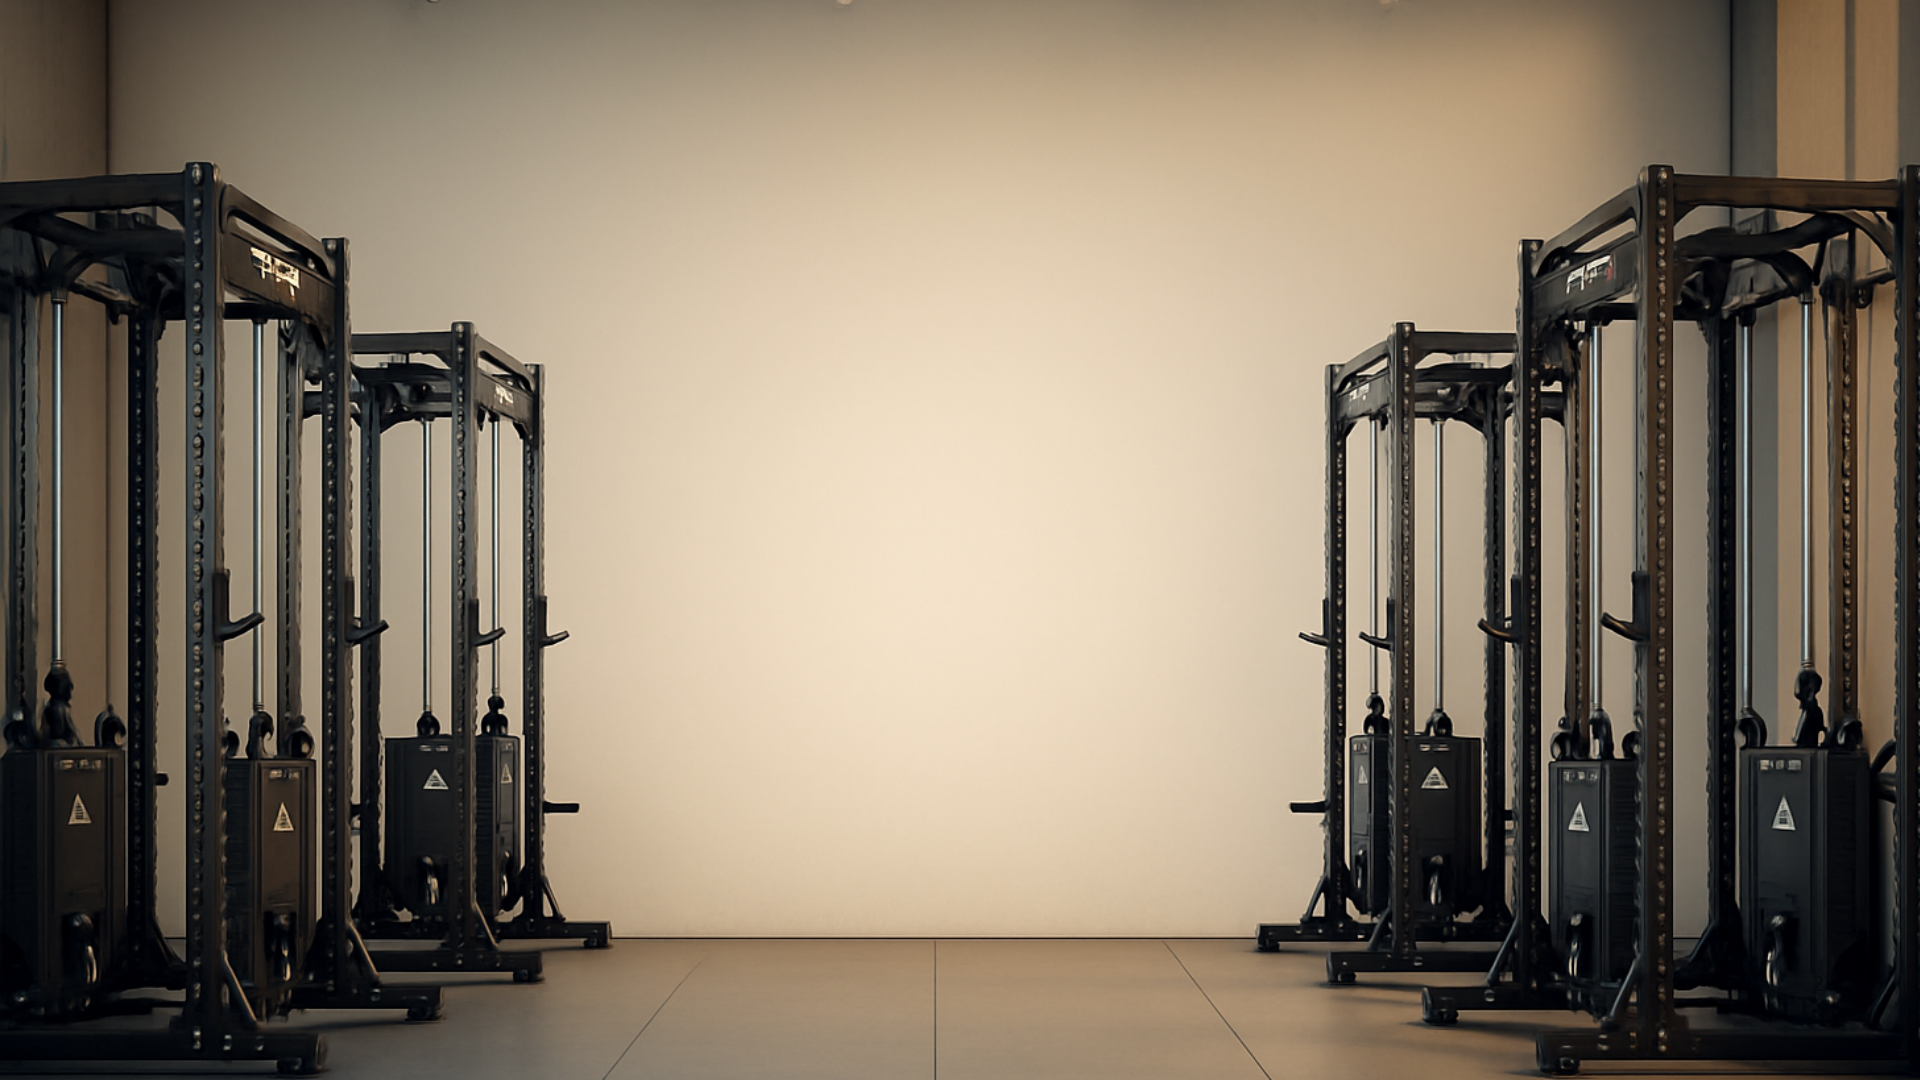
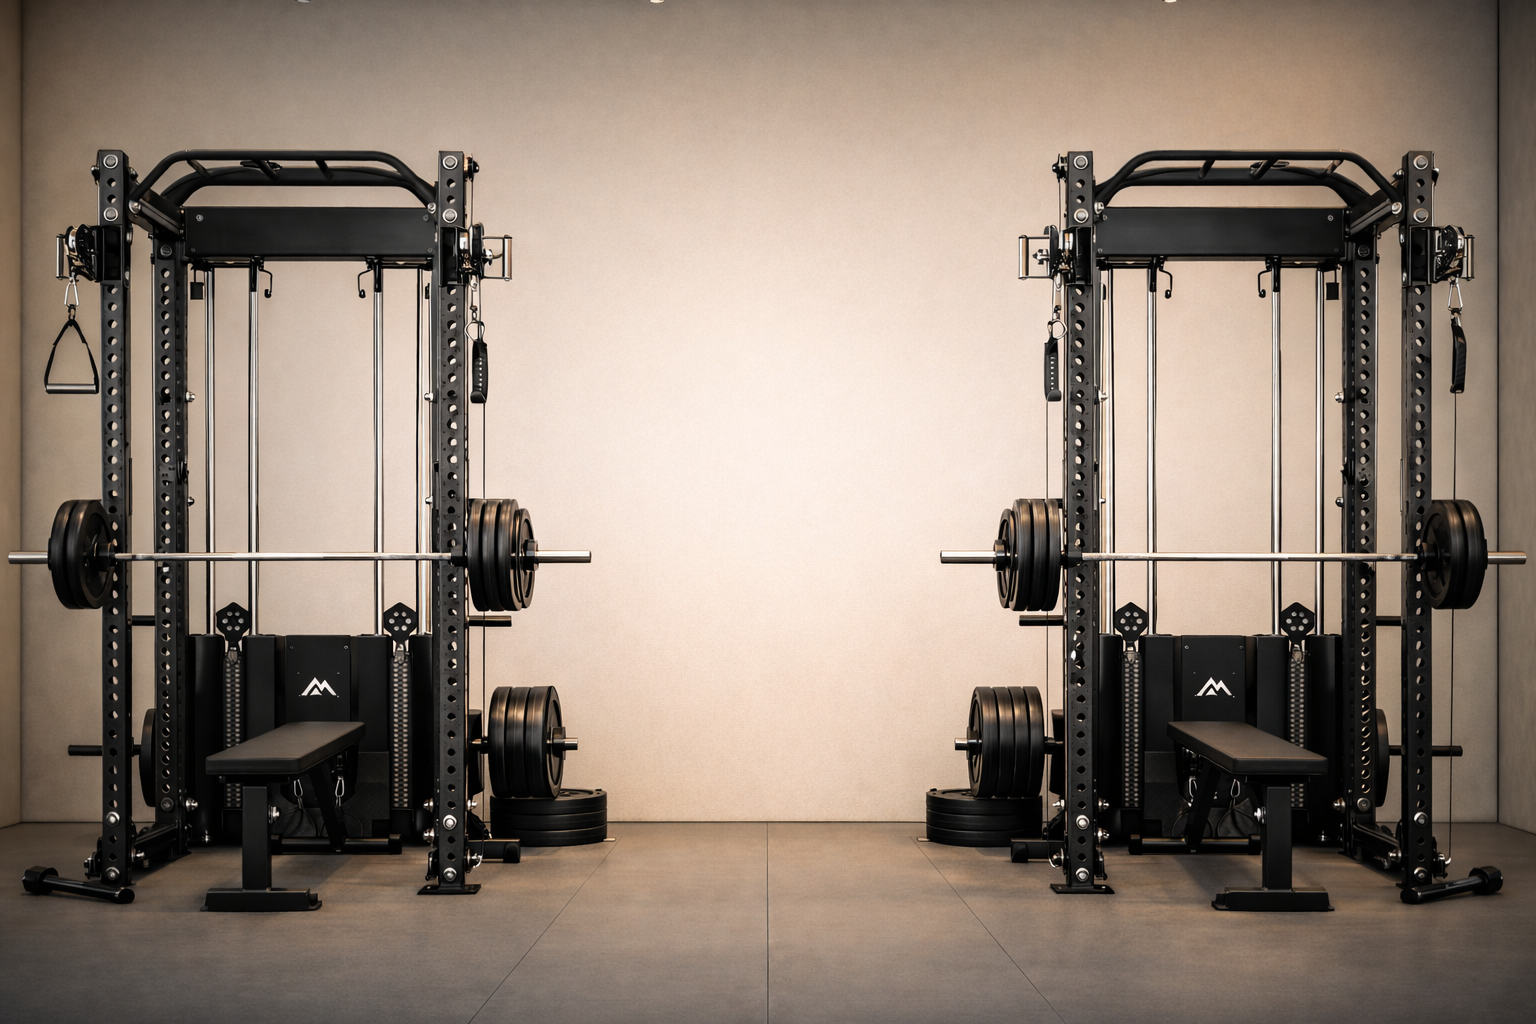
Replace hero background image and fix mobile crop

diff --git a/css/styles.css b/css/styles.css
@@ -482,7 +482,14 @@ p {
   width: 100%;
   height: 100%;
   object-fit: cover;
+  object-position: center center;
   opacity: 0.4;
+}
+
+@media (max-width: 767px) {
+  .hero-bg img {
+    object-position: 18% center;
+  }
 }
 
 .hero-overlay {
@@ -1324,12 +1331,15 @@ p {
 .contact-form {
   display: flex;
   flex-direction: column;
+  align-items: stretch;
   gap: var(--space-sm);
   margin-top: var(--space-md);
+  width: 100%;
 }
 
 .contact-form input[type="email"],
 .contact-form textarea {
+  width: 100%;
   padding: 1rem 1.5rem;
   background: var(--glass-bg);
   backdrop-filter: blur(var(--glass-blur));
